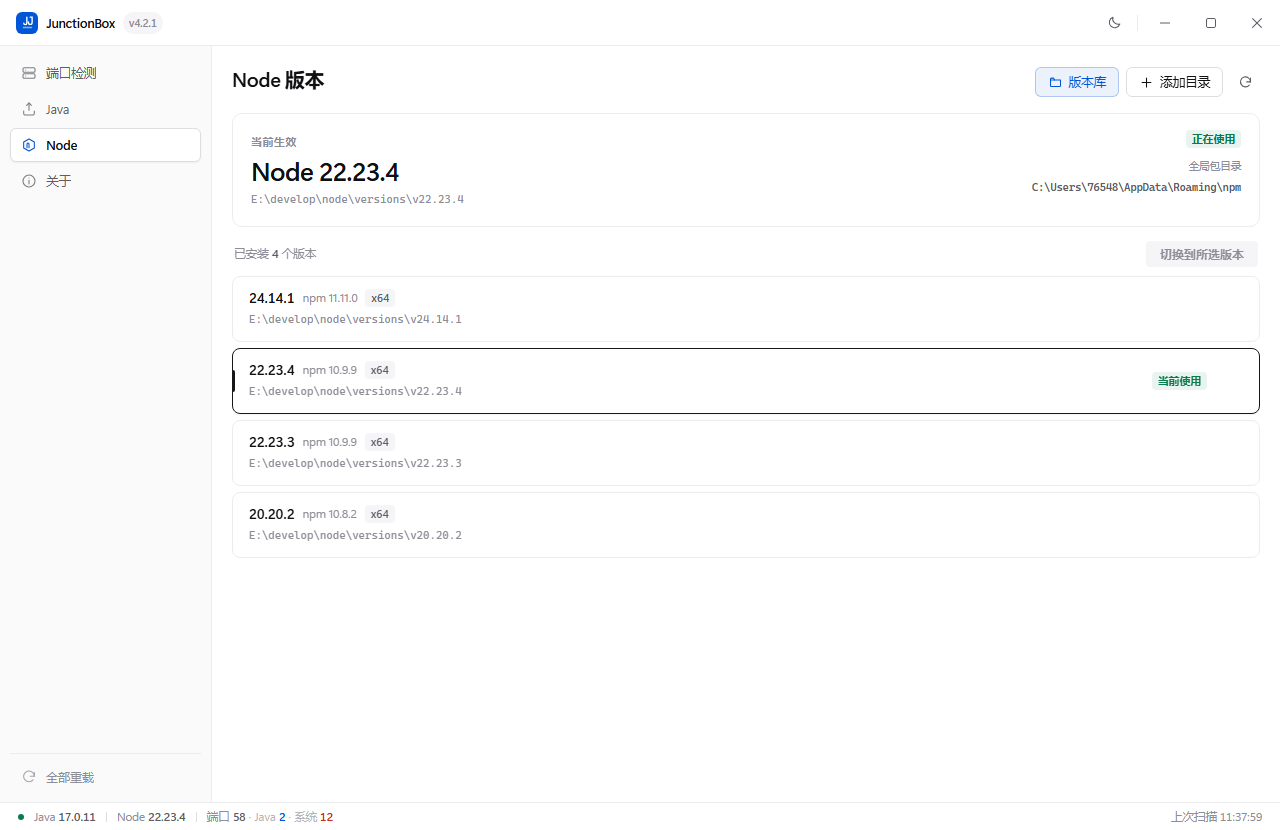
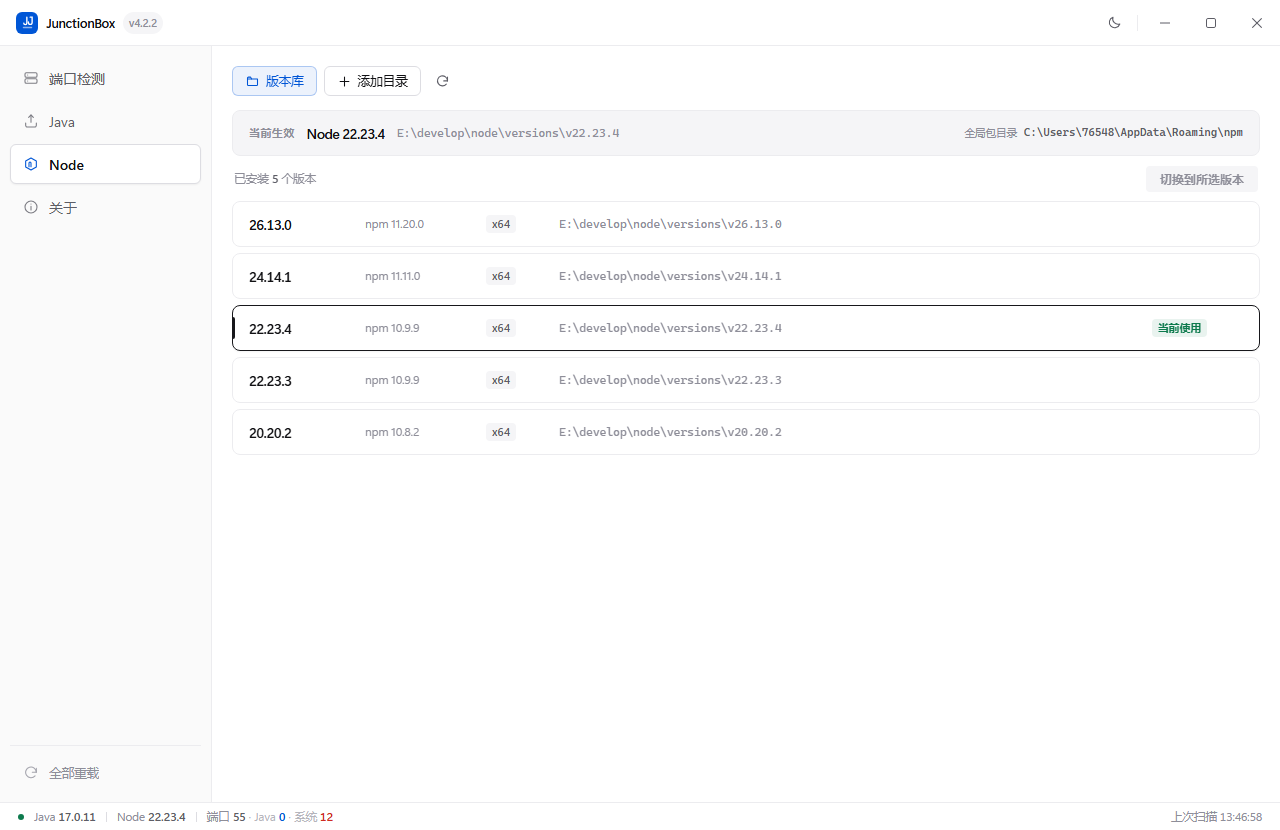
docs: 4.2.2 changelog and screenshots for the unified row scale
Every screenshot is retaken: the pages no longer carry a title, the version
page shows the summary strip instead of the big current card, and the store
shot now captures the gradient tail without the hard border.

diff --git a/CHANGELOG.md b/CHANGELOG.md
@@ -13,6 +13,30 @@ Release 页就显示什么**。写新版本时只需遵守三个约定：
 
 ---
 
+## [4.2.2] - 2026-10-30 · 一种行尺度，一个页面入口
+
+上一版把「当前生效」做成一张占四分之一屏的大卡，下面接四条小行——同一页里两种尺度，
+大小失衡。这一版让整页只剩一种行高，并把每页左上角重复的页面名删掉。
+
+### 调整
+
+- **侧栏条目加大**。行高 34 → 40px、字号 12.5 → 14px，与表格行、按钮、状态栏形成
+  清晰的尺度梯度，点击区也更从容。
+- **版本页统一为单一行尺度**。取消独立的「当前生效」大卡片，降级为与版本行同高的沉底摘要条；
+  版本行改为单行栅格（版本号 / 厂商 / 架构 / 路径 / 状态各自固定站位），
+  行高统一 46px，没有徽章的行留白而不塌陷。
+- **删除每个页面左上角的大标题**。侧栏已经标明了位置，页面内不再重复；
+  操作按钮直接构成头部，垂直空间还给内容。
+- 端口页的「刷新」并入工具栏，与搜索、筛选同一行，不再单独占一行。
+- 端口表的「标识」列 140 → 96px，省出的宽度归给被截断最严重的命令行列。
+
+### 修复
+
+- 夜间模式下次级文字对比度不足（`#787883` → `#86868f`），小字更易读。
+- 下载进度填充右缘的 1px 描边与渐变末端重叠成一条生硬竖线，去掉描边、提高渐变末端浓度自然收边。
+
+---
+
 ## [4.2.1] - 2026-10-30 · 版本库只管下载，切换回列表做
 
 把「装一个版本」这条路收敛成一条直线：位置在版本库底部选一次，点安装直接开下，
